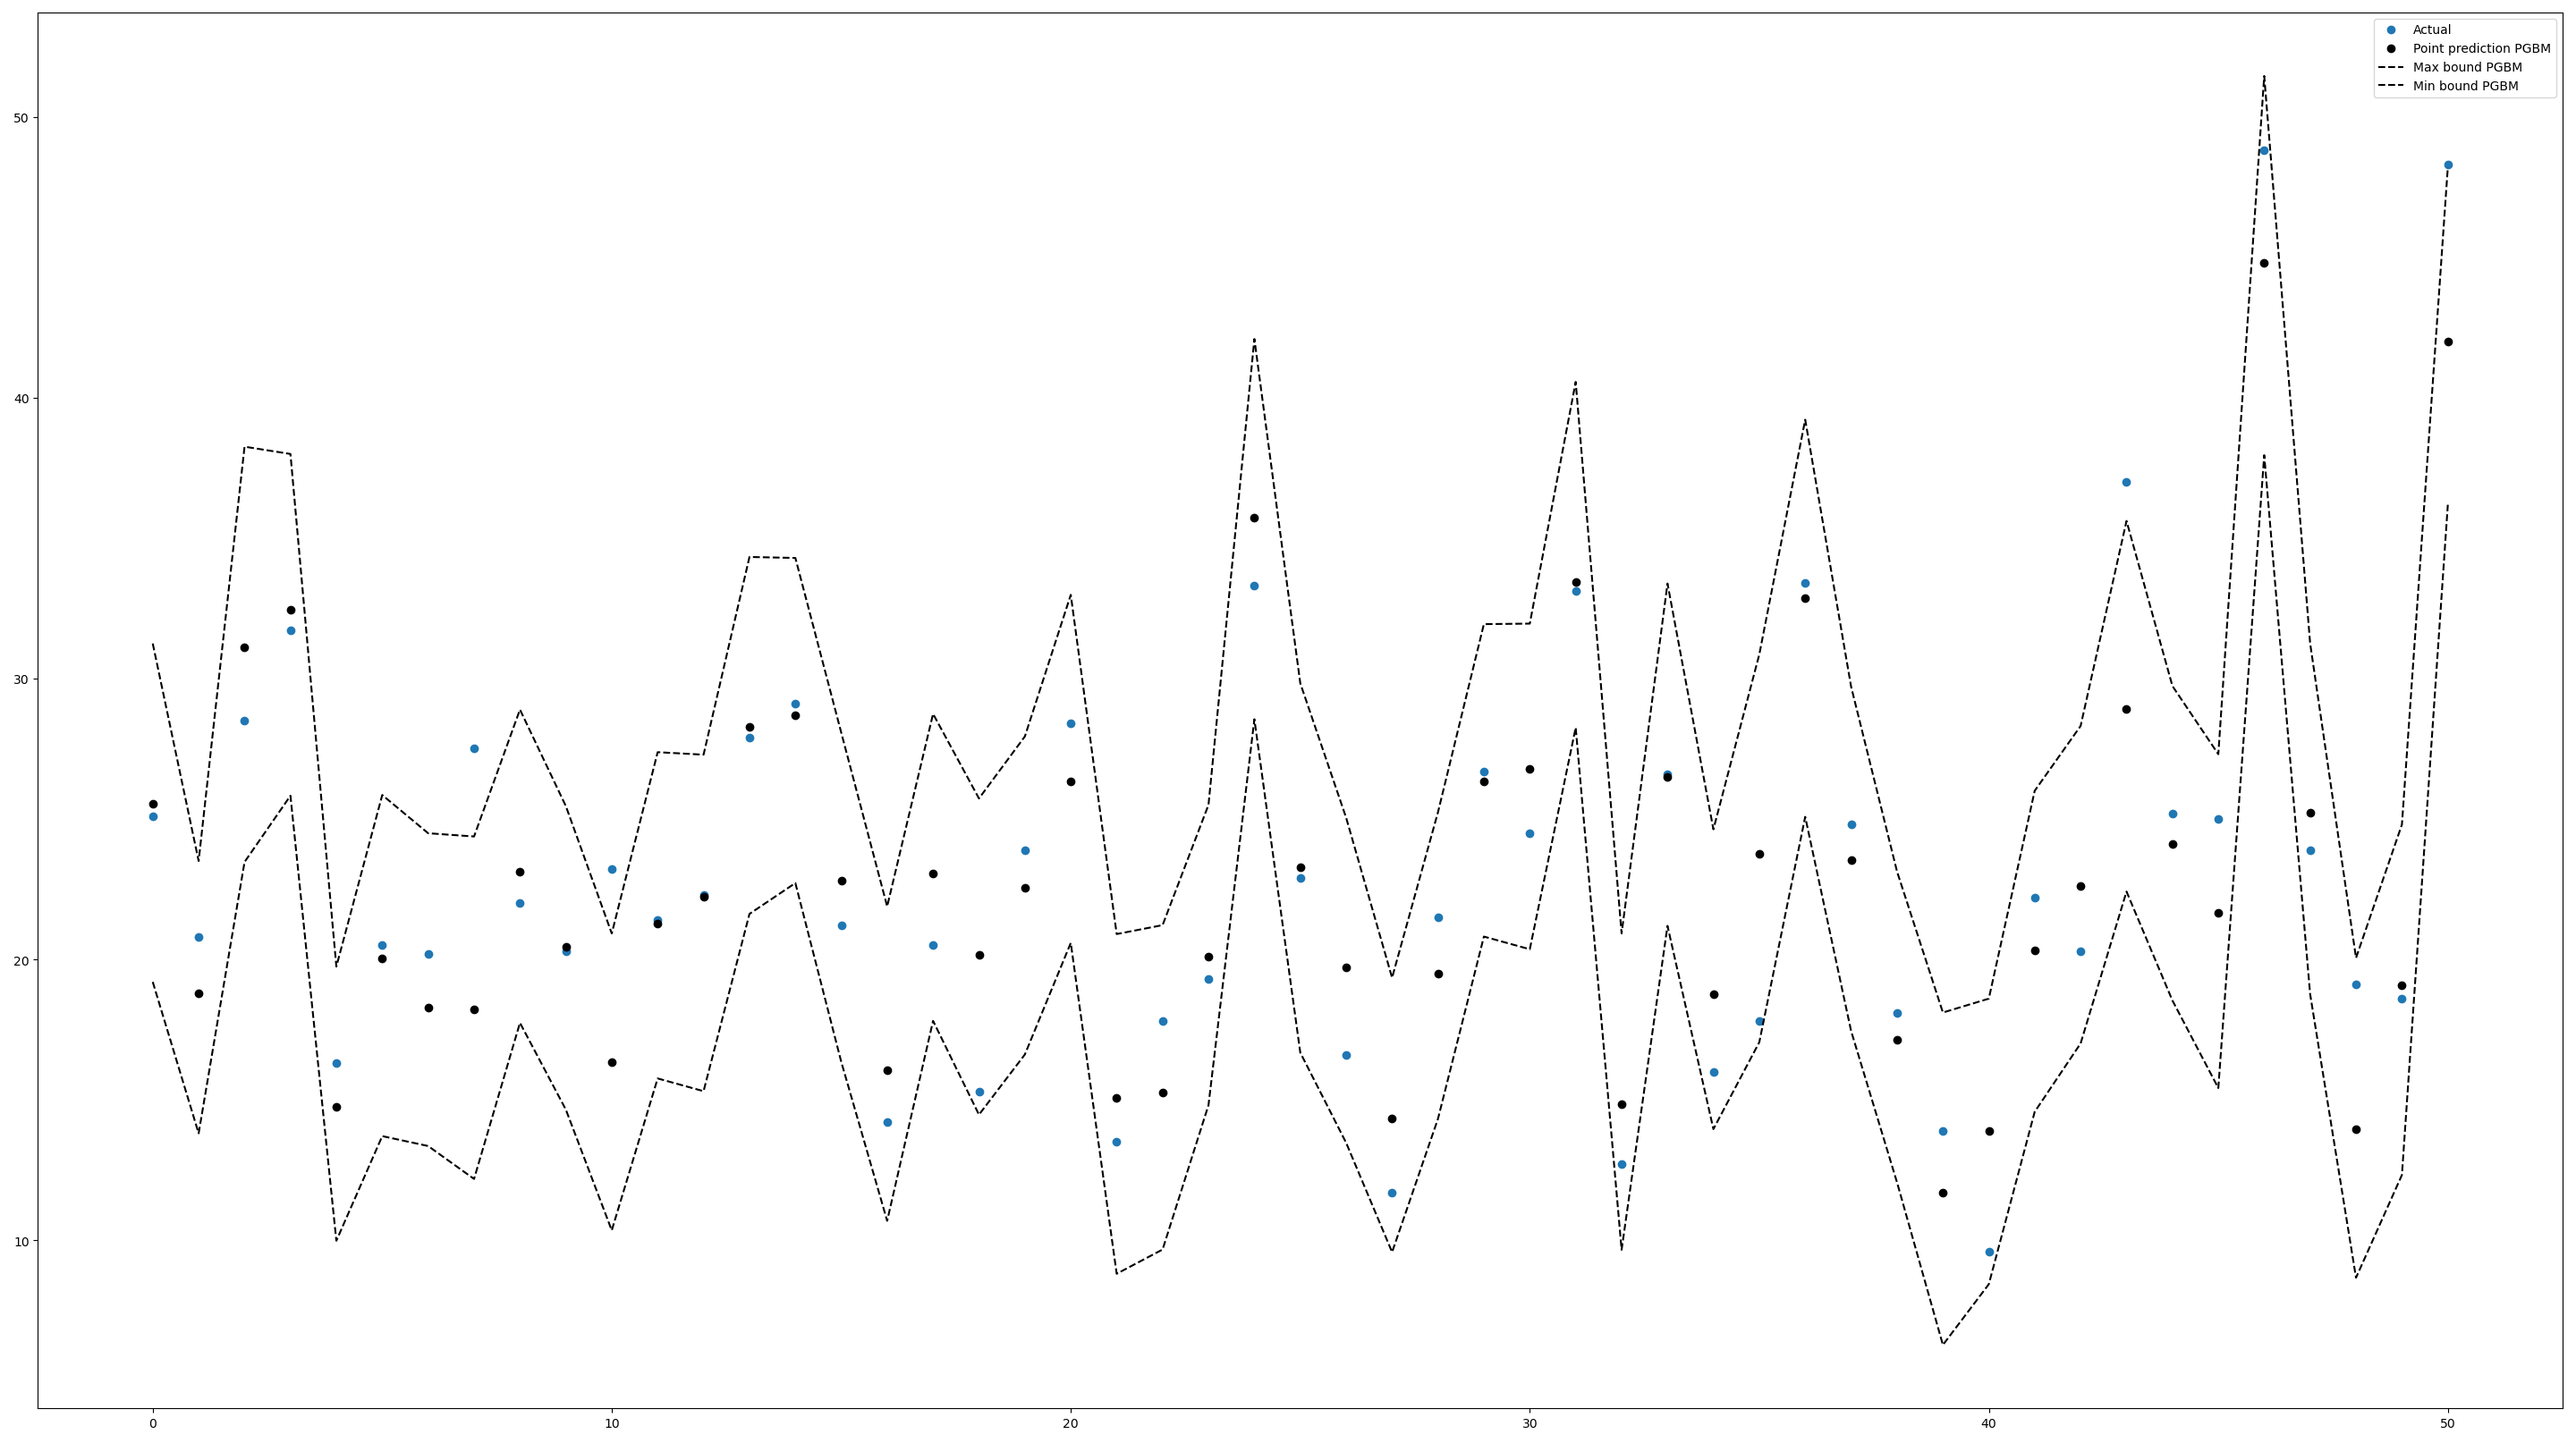
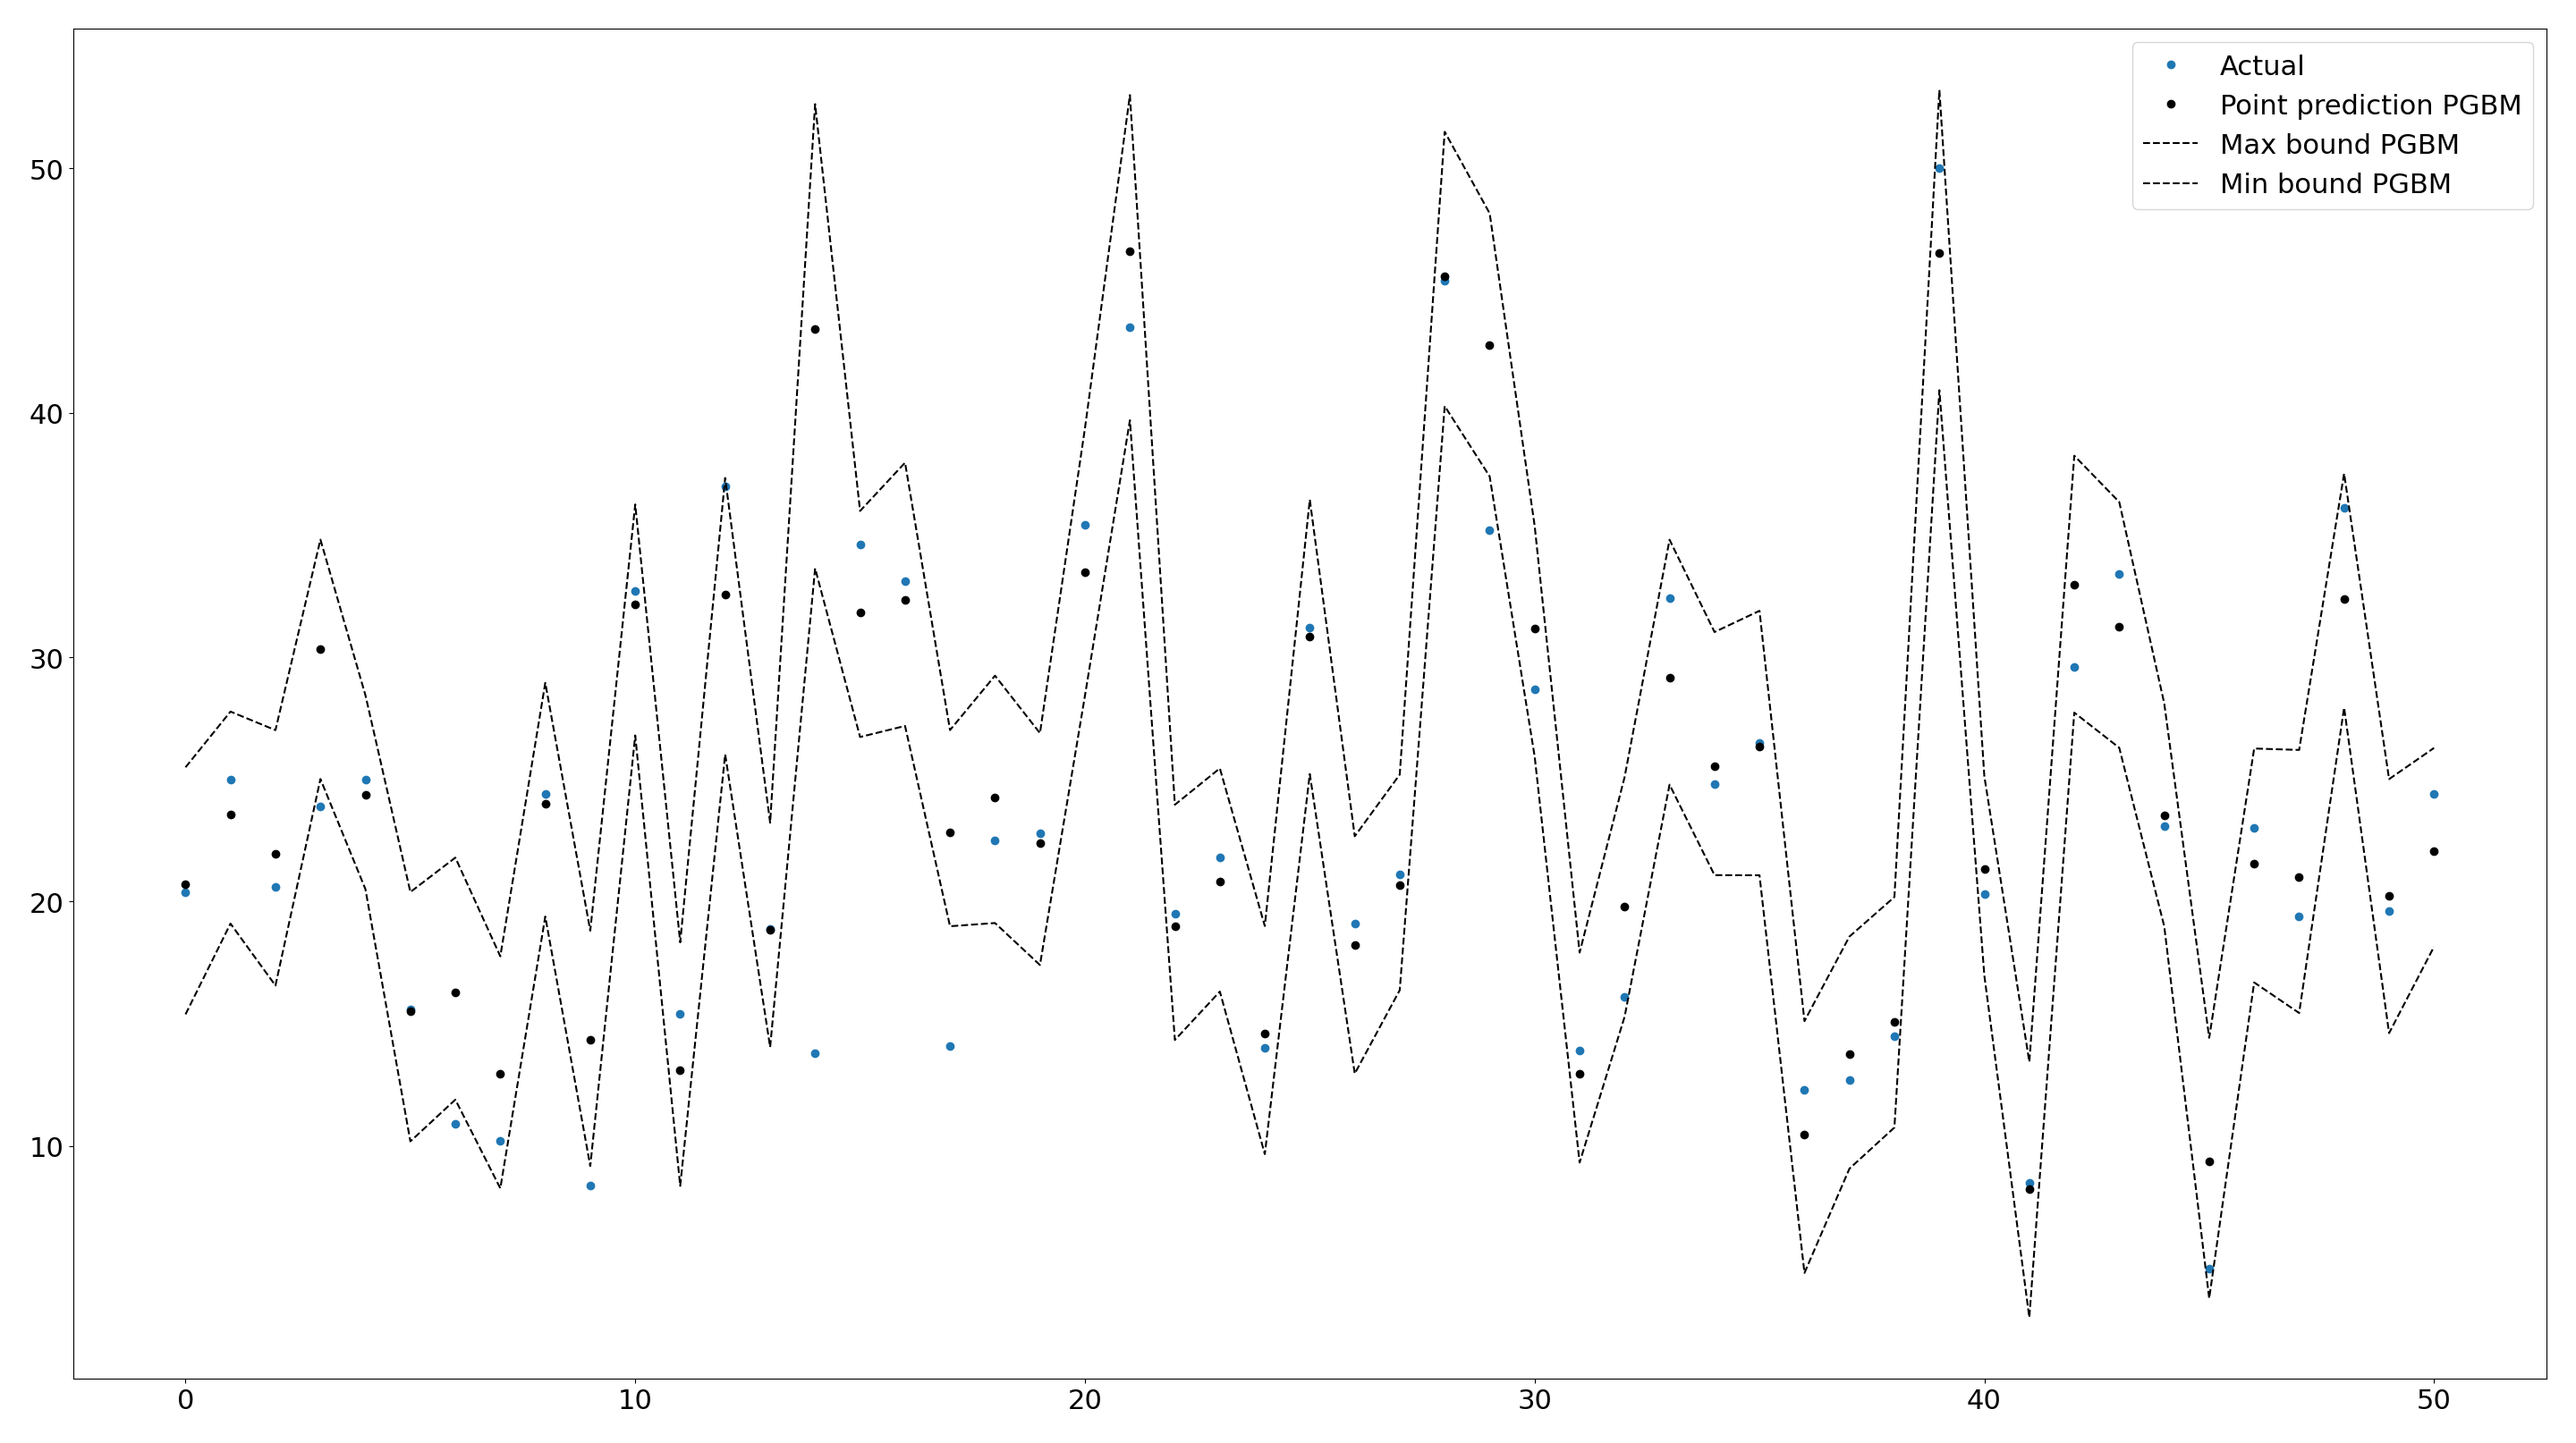
updateexamples

diff --git a/examples/example1_bostonhousing_cpu.py b/examples/example1_bostonhousing_cpu.py
@@ -56,6 +56,7 @@ crps = pgbm.crps_ensemble(test_data[1], yhat_dist_pgbm).mean()
 print(f'RMSE PGBM: {rmse:.2f}')
 print(f'CRPS PGBM: {crps:.2f}')
 #%% Plot all samples
+plt.rcParams.update({'font.size': 22})
 plt.plot(test_data[1], 'o', label='Actual')
 plt.plot(yhat_point_pgbm.cpu(), 'ko', label='Point prediction PGBM')
 plt.plot(yhat_dist_pgbm.cpu().max(dim=0).values, 'k--', label='Max bound PGBM')

diff --git a/README.md b/README.md
@@ -1,3 +1,5 @@
+![Airlab Amsterdam](https://icai.ai/wp-content/uploads/2020/01/AIRLabAmsterdam-10-6-gecomprimeerd-transparant.png)
+
 # PGBM #
 
 Probabilistic Gradient Boosting Machines (PGBM) is a probabilistic gradient boosting framework in Python based on PyTorch. It provides the following advantages over existing frameworks:
@@ -95,6 +97,9 @@ The experiments from our paper can be replicated by running the scripts in the [
 
 ### License ###
 This project is licensed under the terms of the [Apache 2.0 license](https://github.com/elephaint/pgbm/blob/main/LICENSE).
+
+### Acknowledgements ###
+
 
 ### ToDo ###
 We intend to have the package as lightweight as possible.
